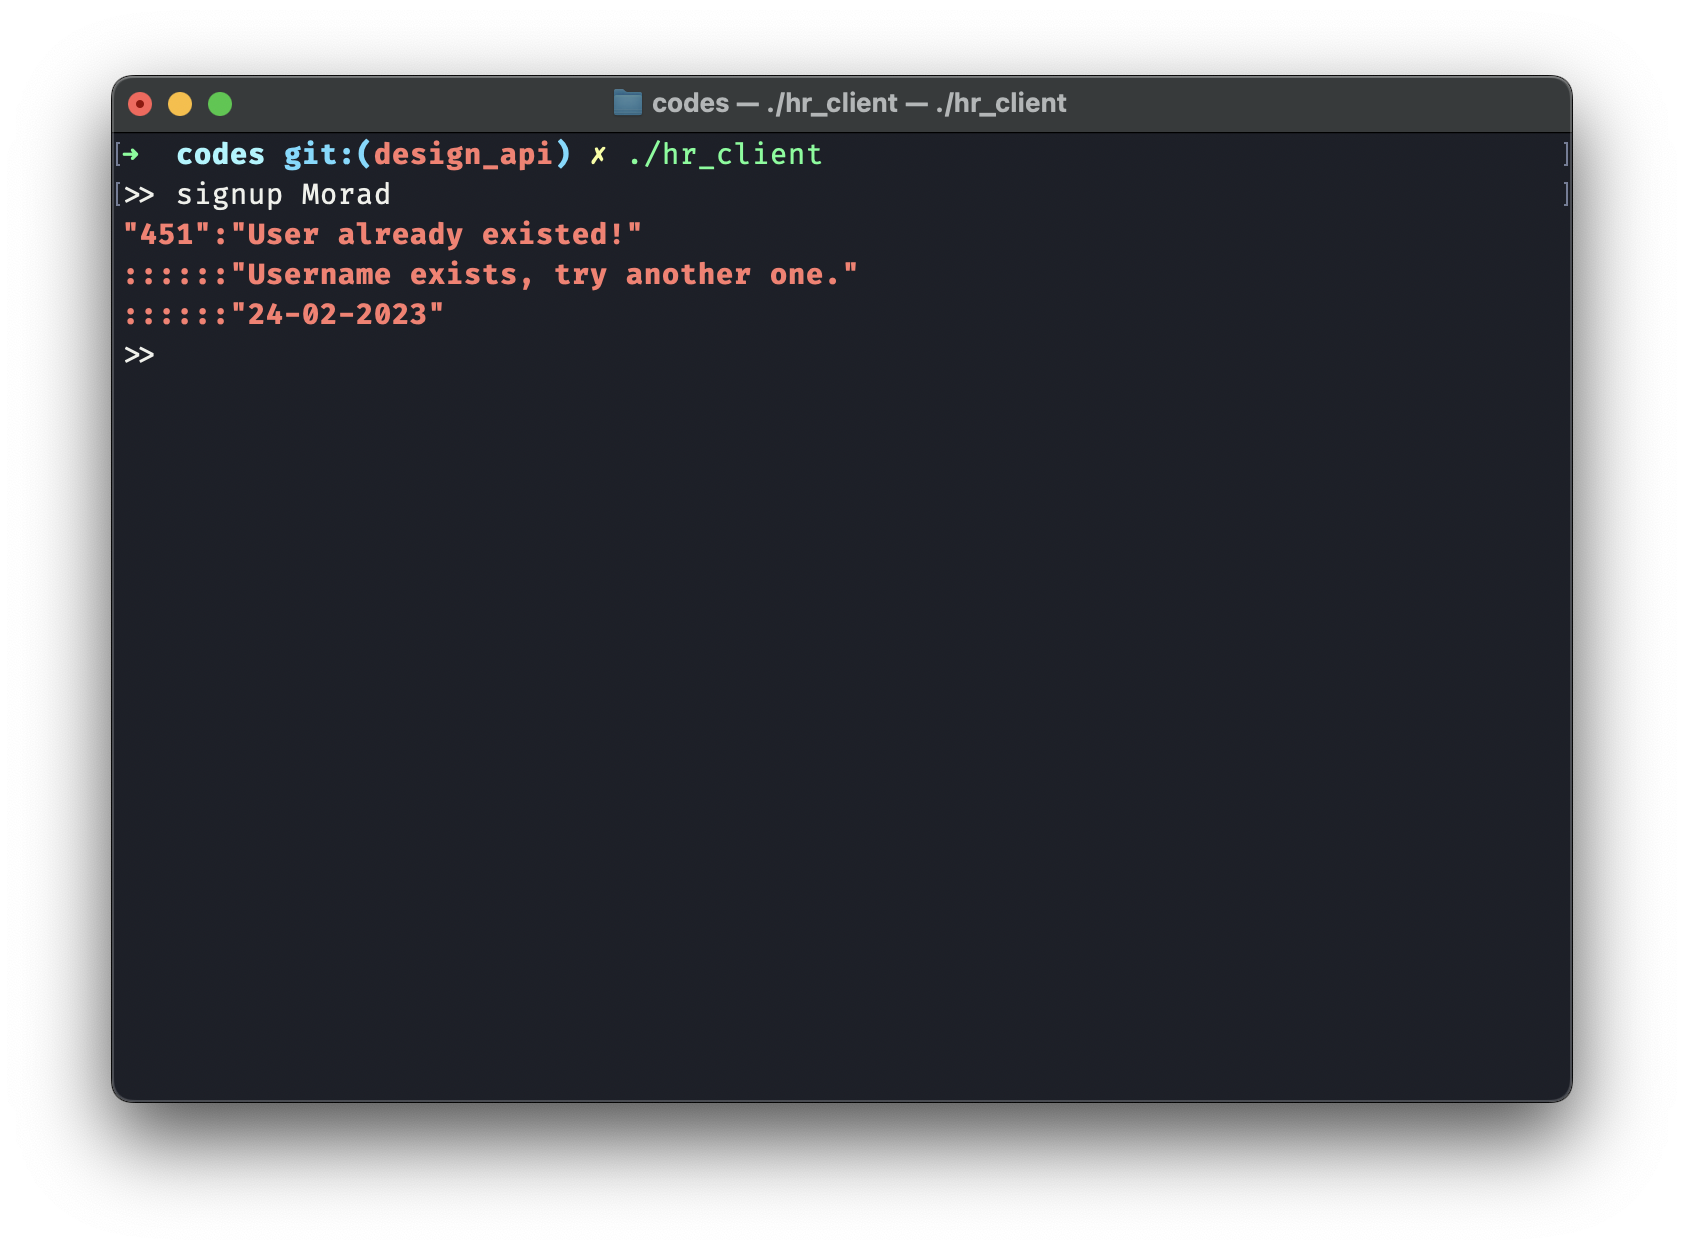
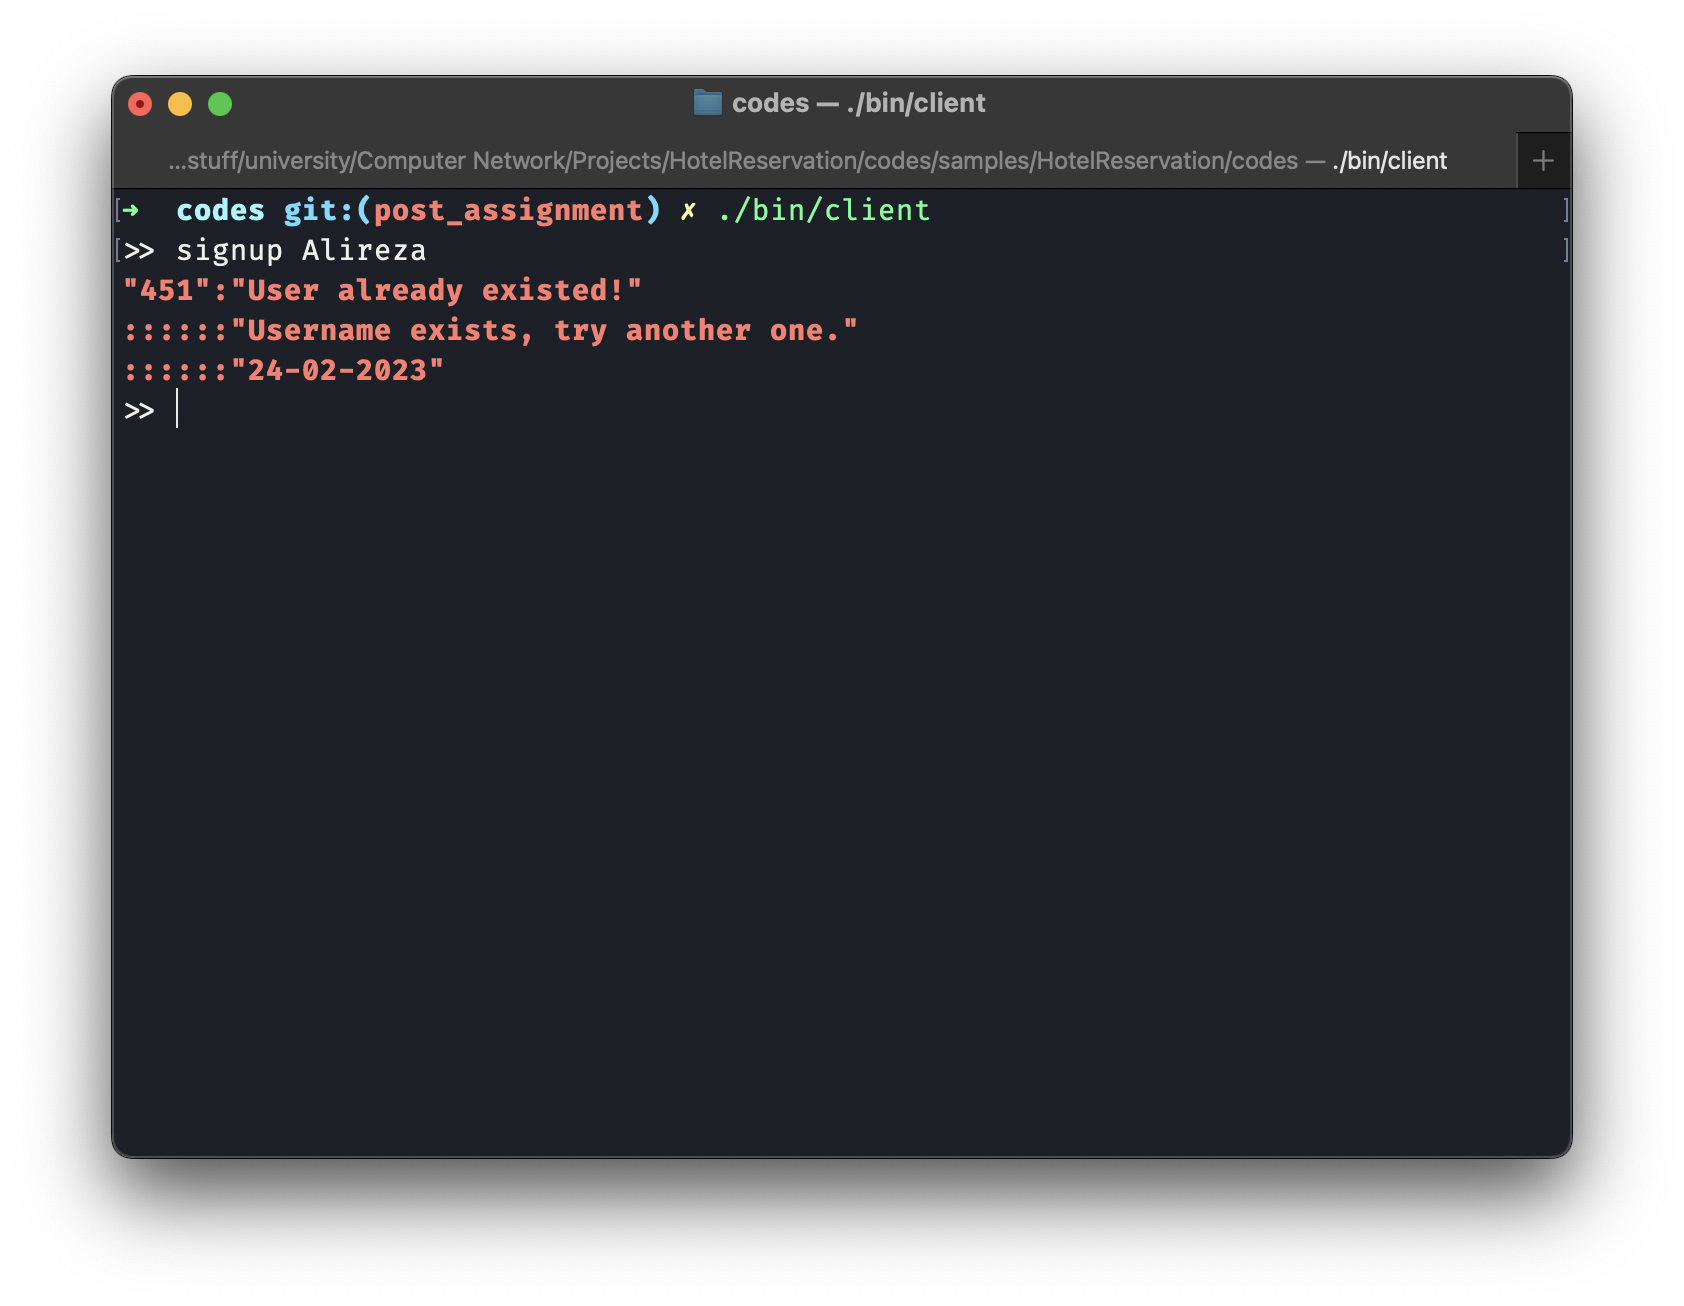
Post assignment (#6)
* Fix Userinfo id of alireza

* Improve error for modify room

* Fix cmake sens.

* Update cmake

* Update README

* Update README

* Update Docs

* Update Docs

Changed region(s): [[0.0618, 0.0312, 0.9264, 0.312], [0.0618, 0.8736, 0.9264, 0.9048]]

diff --git a/codes/infra/server.cpp b/codes/infra/server.cpp
@@ -513,6 +513,13 @@ std::string Server::modify_a_room(json &j_in, UserManager &um, HotelManager &hm)
                          rsp["status_code"], rsp["status"], rsp["message"], "Rooms|modify");
         return rsp.dump();
     }
+    if(!hm.capacity_validation(roomID, max_cap)){
+        rsp = response("error", "401", "Modification failed due to future reservation's conflict with new maximum capacity");
+        save_server_log(today_date, "server/", rsp["kind"]=="success", um.get_username(token), -1,
+                        rsp["status_code"], rsp["status"], rsp["message"], "Rooms|modify");
+        return rsp.dump();
+    }
+
     if(!hm.modify_room(roomID, max_cap, price)){
         rsp = response("error", "000", "Couldn't modify room!!!");
         save_server_log(today_date, "server/", rsp["kind"]=="success", um.get_username(token), -1,

diff --git a/README.md b/README.md
@@ -26,7 +26,7 @@ Run:
 cmake .
 ```
 
-This could take up to 30(min) for the first time.
+This could take up to 10(min) for the first time.
 
 ### Build project
 
@@ -36,14 +36,14 @@ Run:
 make
 ```
 
-This command would generate `hr_test`, `hr_client`, `hr_server`.
+This command would generate executable files, `bin/test`, `bin/client`, `bin/server`.
 ***
 
 ## Features
 
 - Powerful CLI
   - enabled auto-completion: use `tab` for this feature
-  - command history: use `up` and `down` arrow keys for this feature
+  - command history: use `up-arrow` and `down-arrow` keys for this feature
 - Handle multiple clients
 - State recovering: if server restarted, it would remember the previous logged in clients
 
@@ -54,7 +54,7 @@ This command would generate `hr_test`, `hr_client`, `hr_server`.
 - To start server:
 
 ```shell
-./hr_server
+./bin/server
 ```
 
 After starting, it would ask for current date:
@@ -66,7 +66,7 @@ After setting system's date, server would start listen on the port specified in 
 - To start client:
 
 ```shell
-./hr_client
+./bin/client
 ```
 
 After connecting to server, command-line tools would get activated.
@@ -185,8 +185,16 @@ To logout from their account in a client.
   - You can use `exit` or `quit` command
   - You shouldn't use `Ctrl + C` to quit, it is unsafe and wouldn't save the state of the server
 
+### Logging
+
+To change log level, you can use below command:
+
+- `verbose+`: medium log level, logging warning and error logs.
+- `verbose++`: highest log level, logging everything, including info, warning and error logs.
+- `verbose-`: Default log level, lowest level and just reporting errors.
+
 ***
-## Reference
+## Documentation
 
 For more detail, you can read these docs:
 - [API](Docs/API.md)
